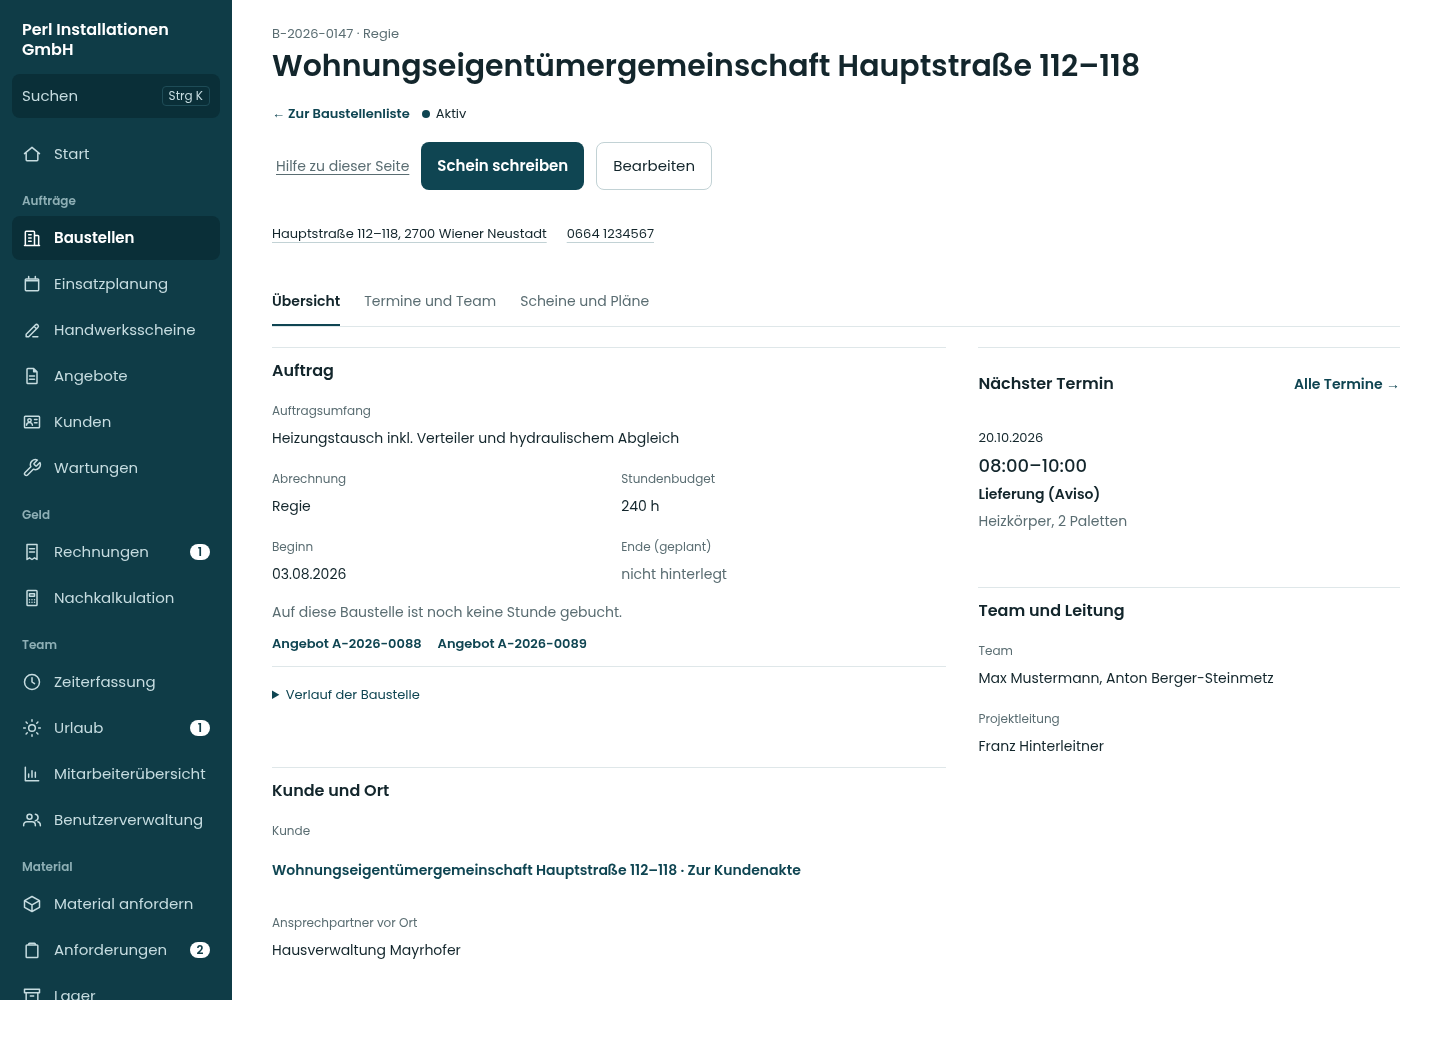
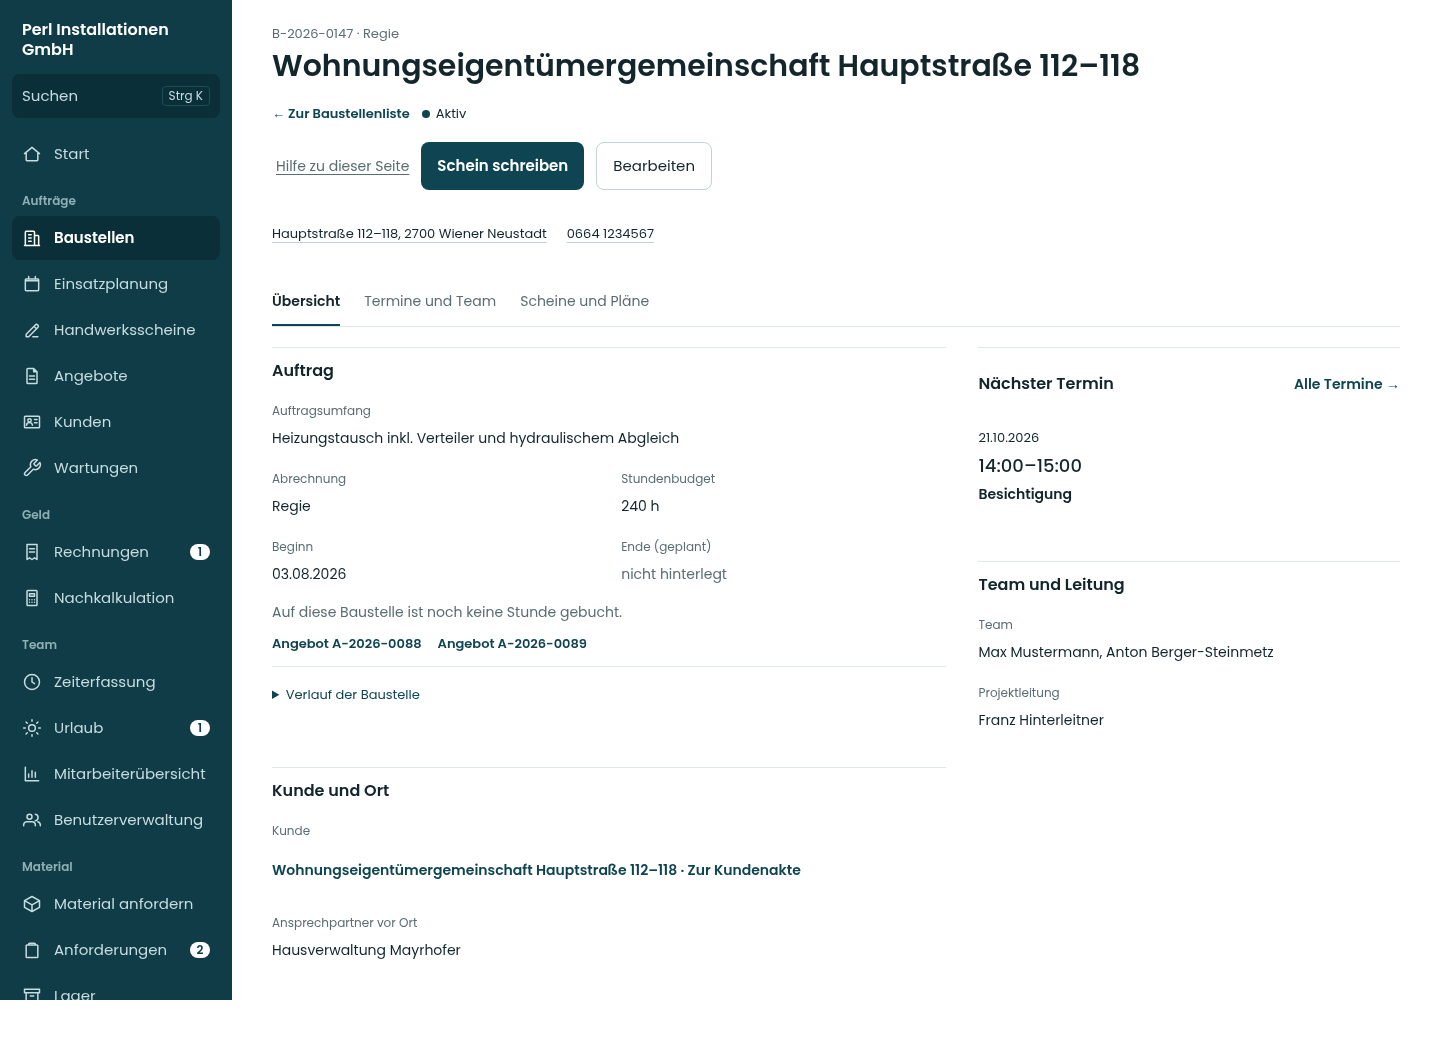
Screens nach abschließender Prüfung der Terminvorschau aktualisieren

Changed region(s): [[0.6875, 0.5528, 0.875, 0.737], [0.6875, 0.3992, 0.7812, 0.5221]]

diff --git a/lot-akten-03-umsetzung-2026-10-20/README.md b/lot-akten-03-umsetzung-2026-10-20/README.md
@@ -1,6 +1,6 @@
 # Die drei Akten · tatsächliche Umsetzung
 
-Diese Bilder zeigen die echten Ansichten der App mit fiktiven Vorschau-Daten, keine Bildentwürfe. Stand 20.10.2026, Quellstand [95e4e6f](https://github.com/juliandeutsch22/Prototype-App-Installateure/commit/95e4e6f).
+Diese Bilder zeigen die echten Ansichten der App mit fiktiven Vorschau-Daten, keine Bildentwürfe. Stand 20.10.2026, Quellstand [c748266](https://github.com/juliandeutsch22/Prototype-App-Installateure/commit/c748266).
 
 Die große Kennzahlenleiste der Baustelle entfällt. Bearbeiten öffnet das vollständige Formular.
 
